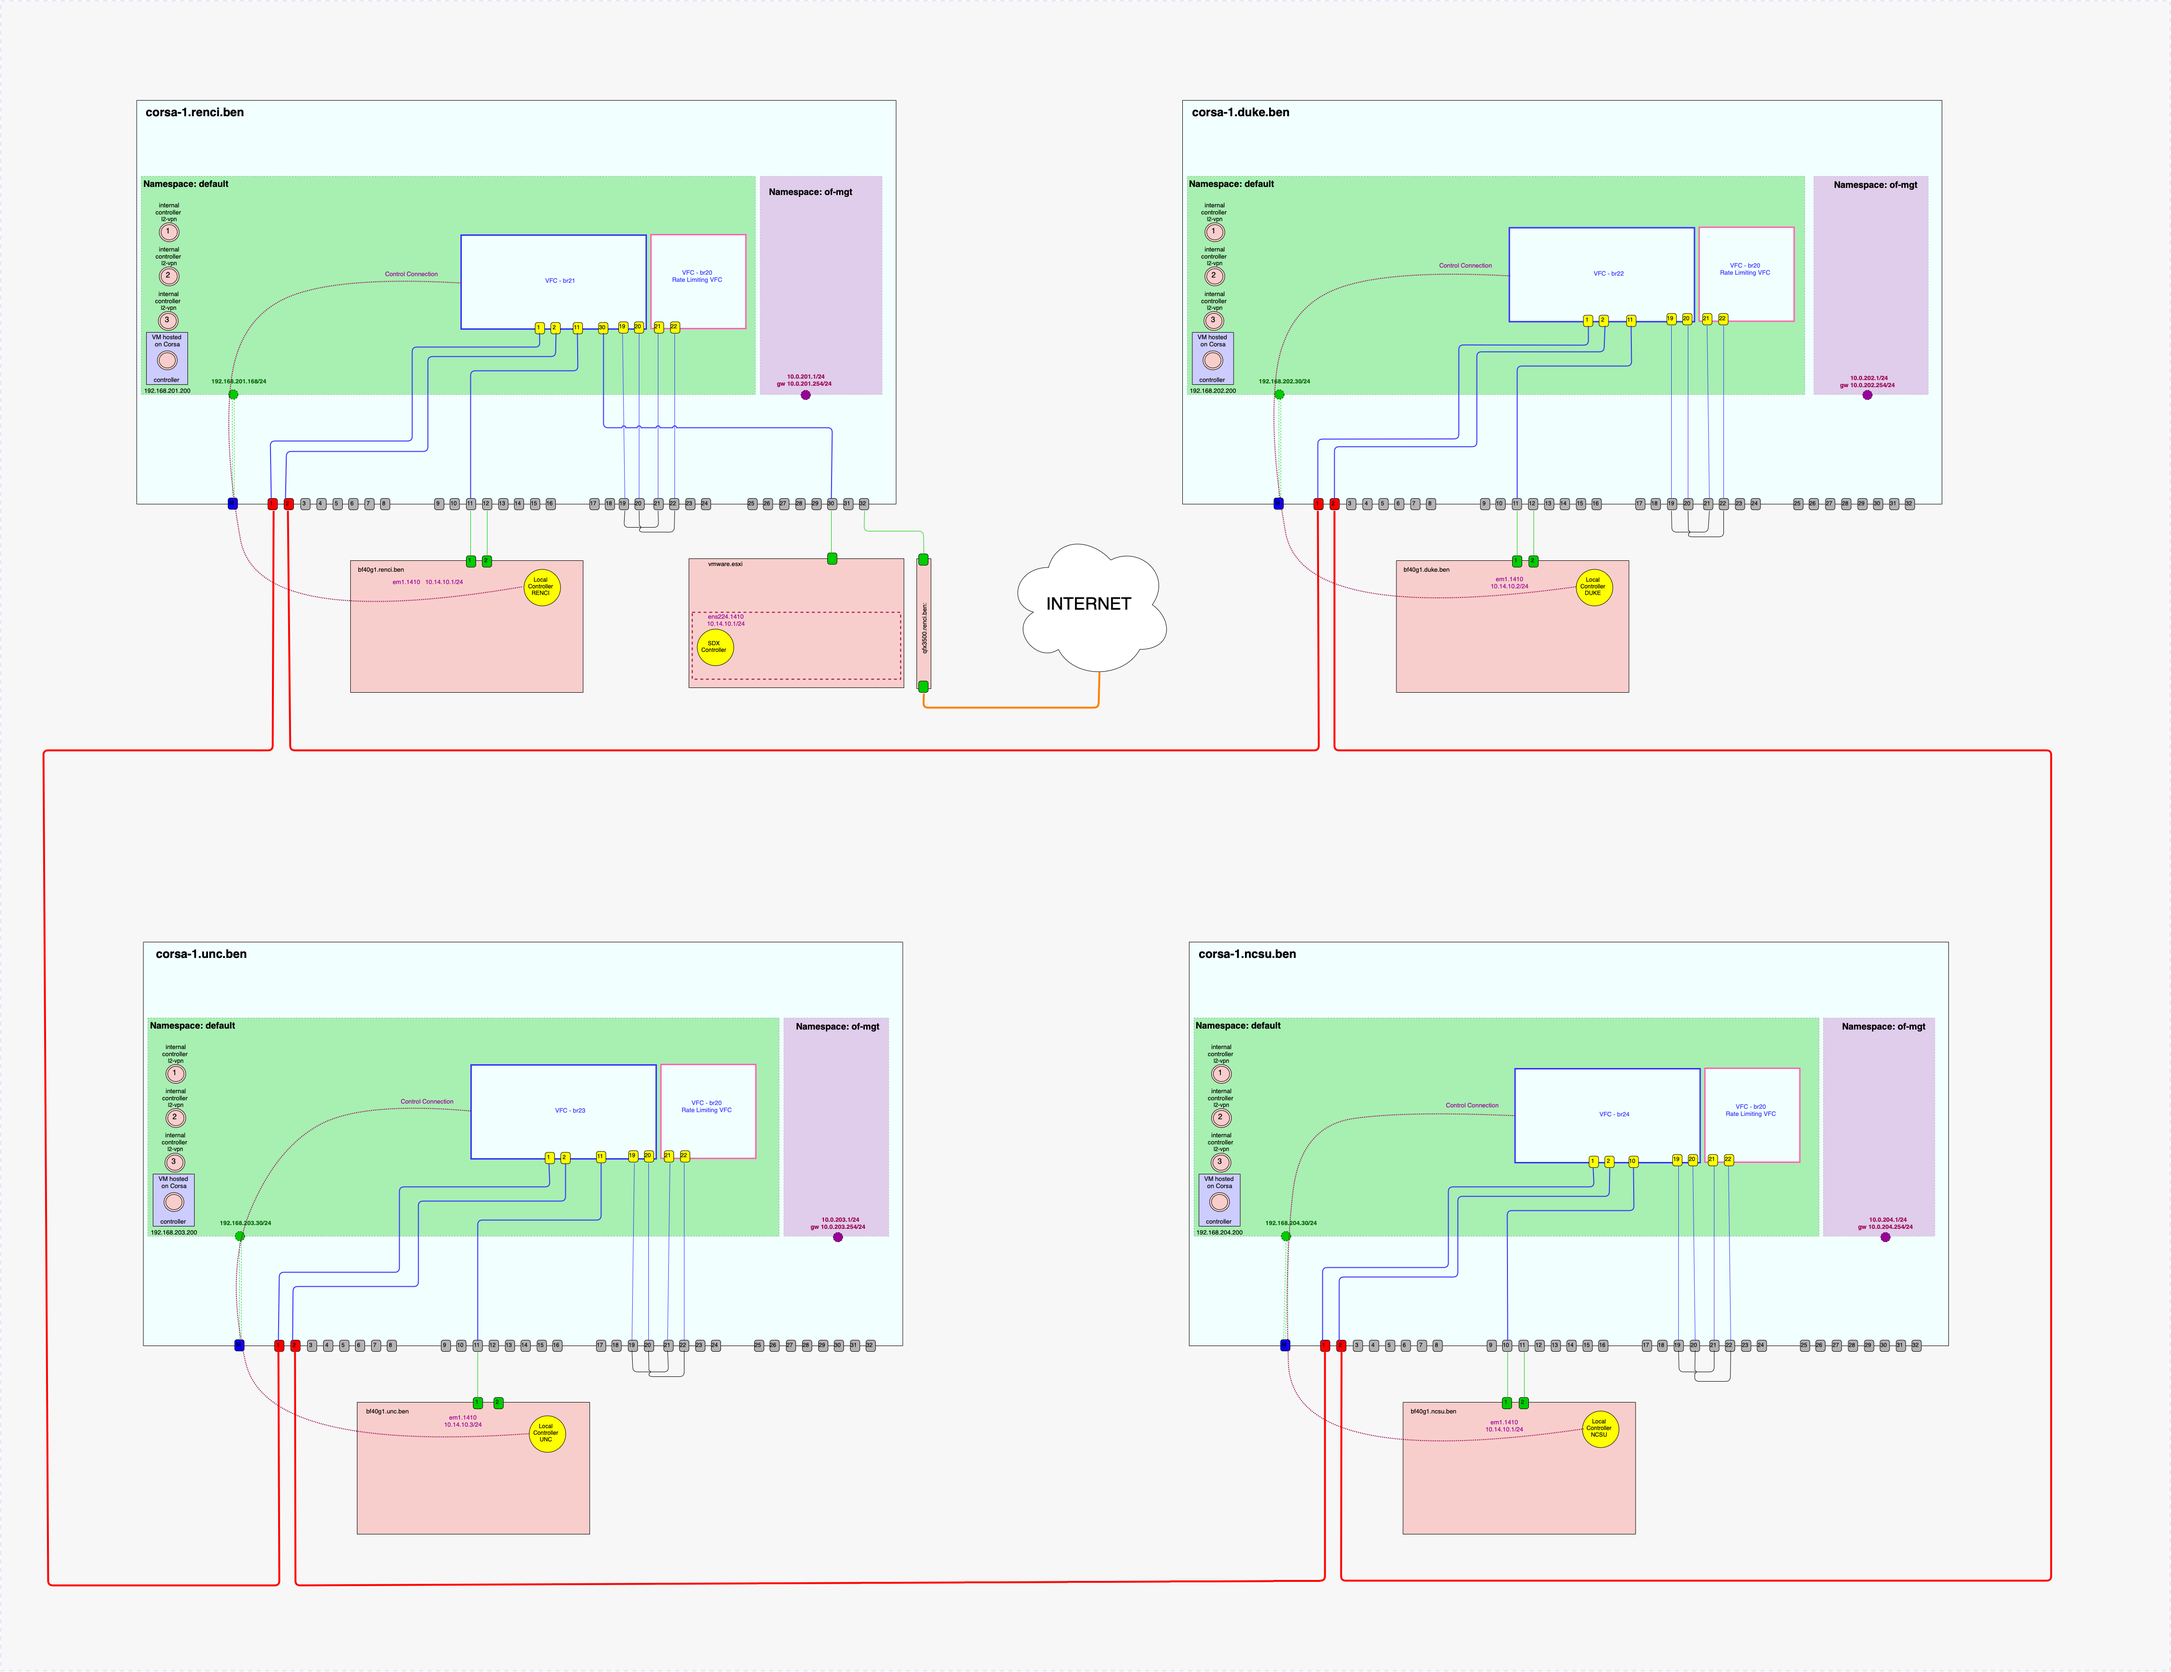
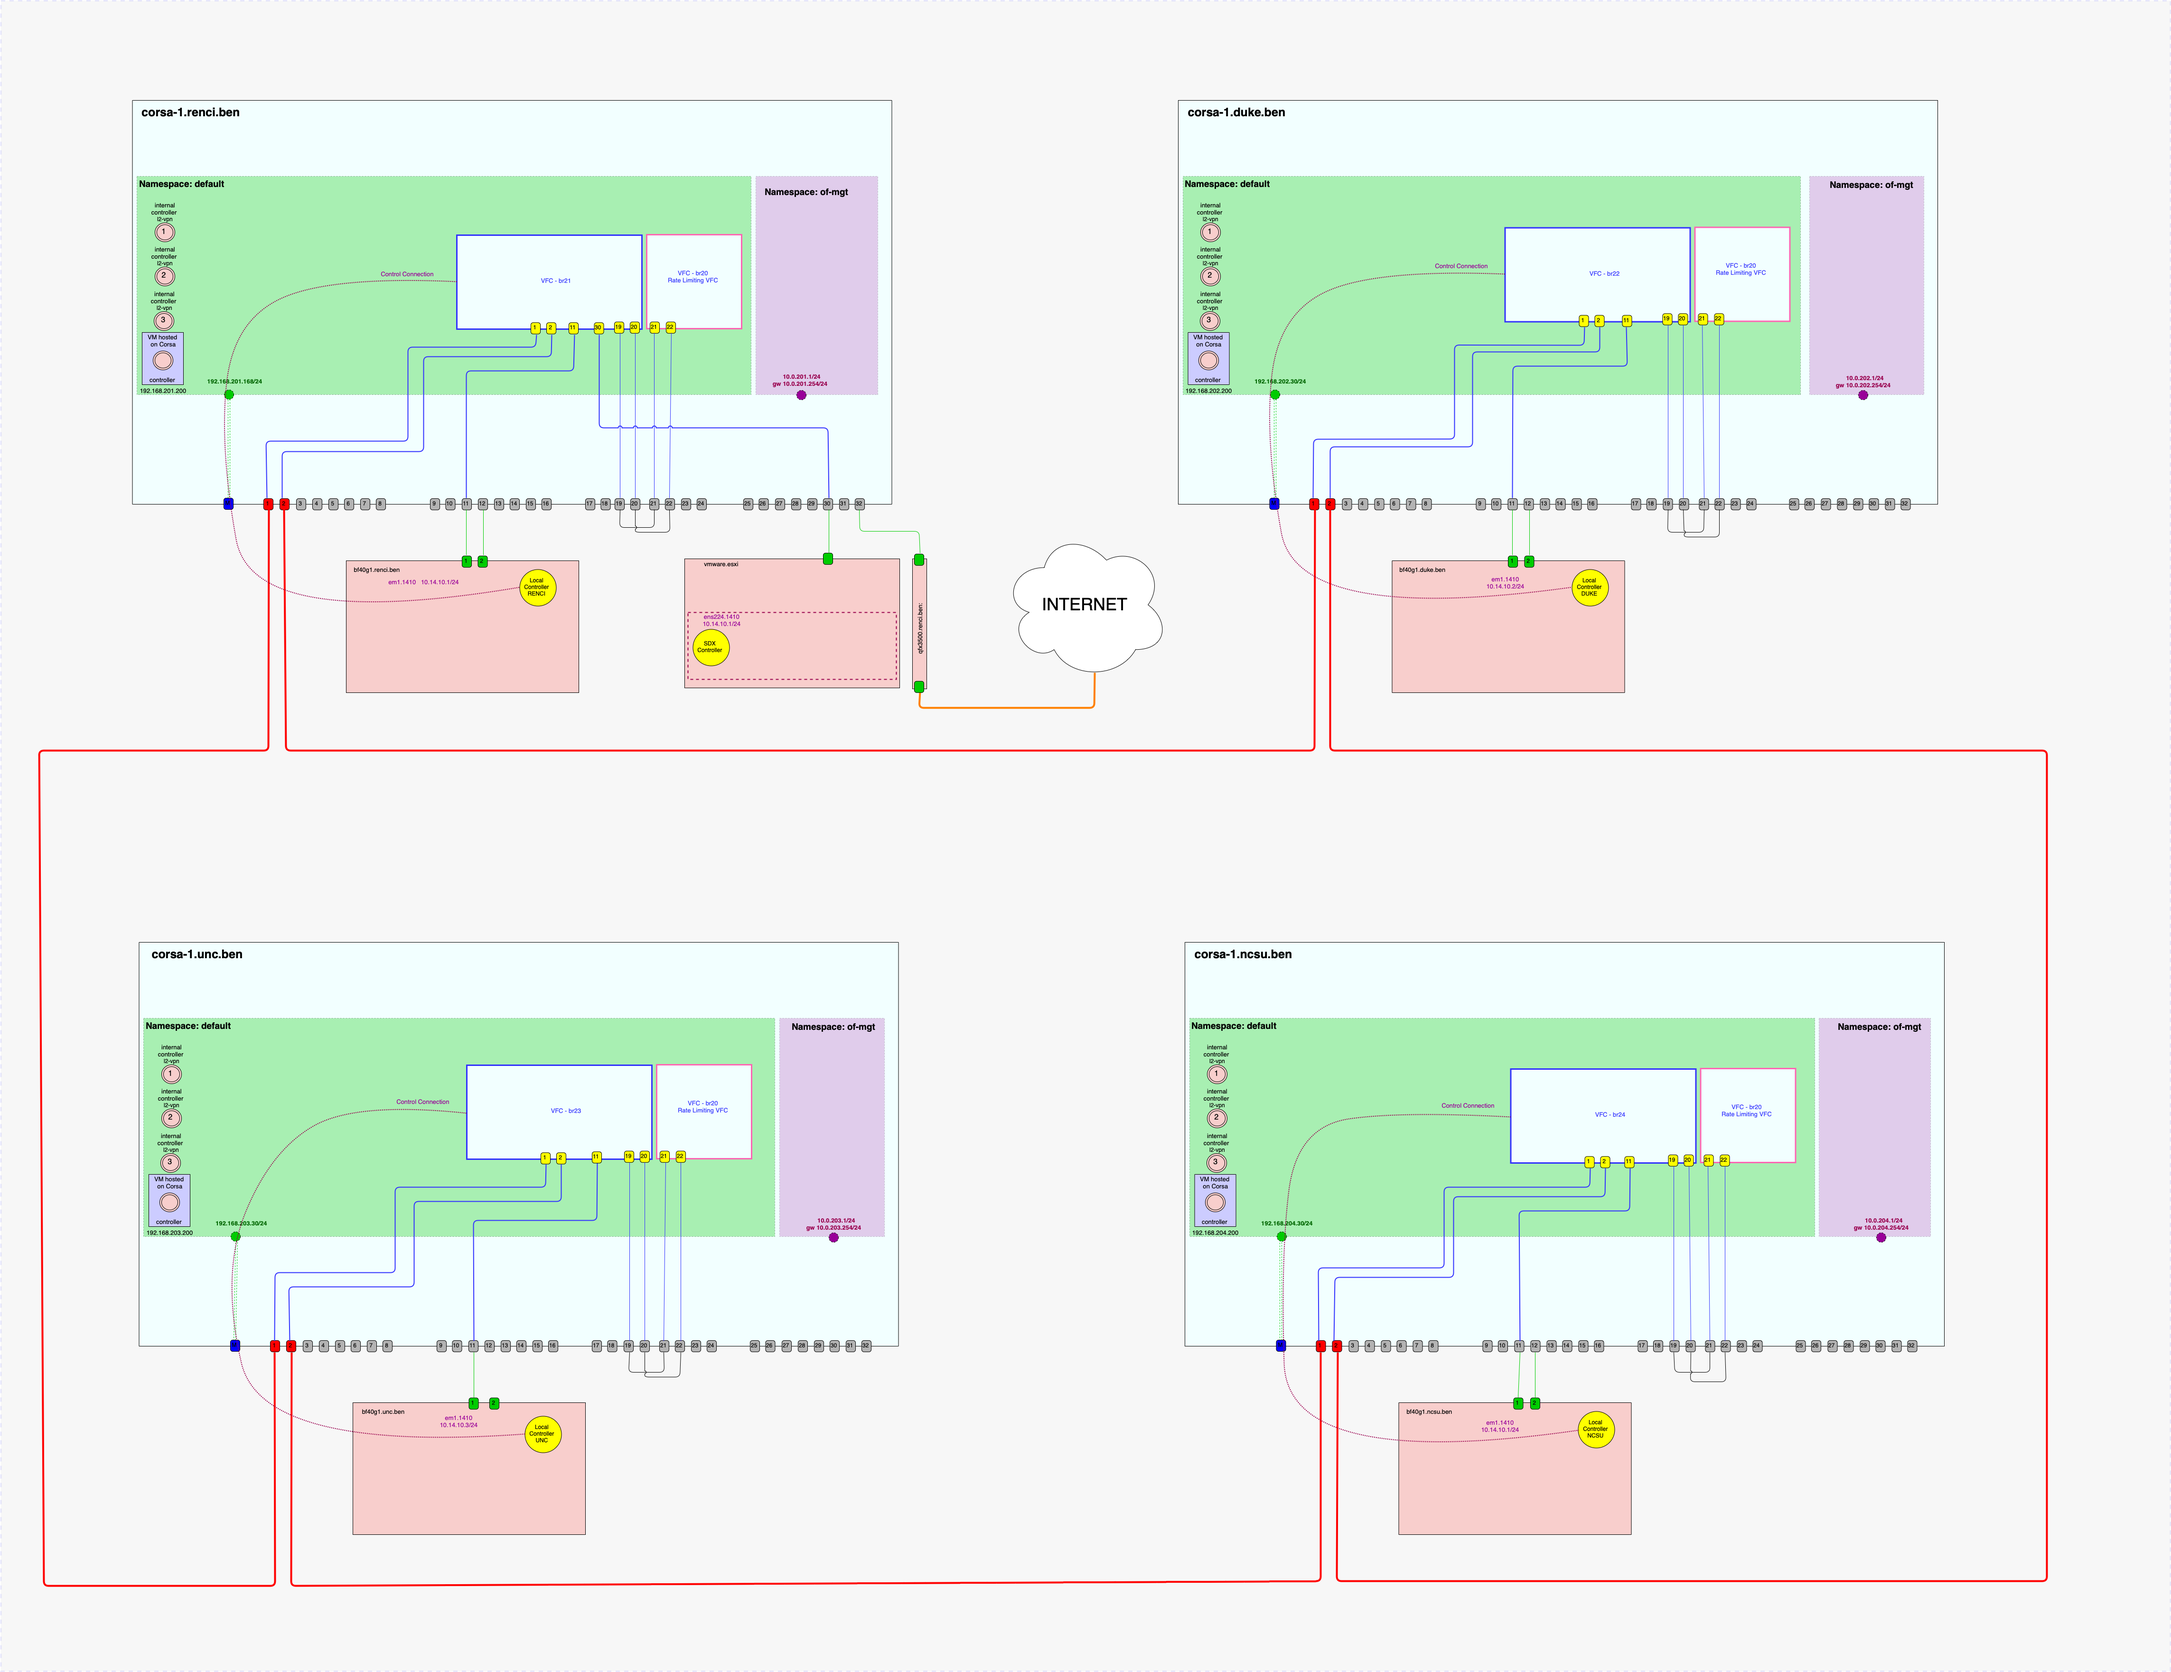
Updates for port changes on NCSU switch

diff --git a/configuration/renci_testbed/README.md b/configuration/renci_testbed/README.md
@@ -82,8 +82,8 @@ configure port 12 tunnel-mode passthrough
 # NCSU
 configure port 1 tunnel-mode passthrough
 configure port 2 tunnel-mode passthrough
-configure port 10 tunnel-mode passthrough
 configure port 11 tunnel-mode passthrough
+configure port 12 tunnel-mode passthrough
 
 ```
 
@@ -140,8 +140,8 @@ configure bridge add br24 openflow resources 10
 configure bridge br24 dpid 0xCC
 configure bridge br24 tunnel attach ofport 1 port 1 
 configure bridge br24 tunnel attach ofport 2 port 2 
-configure bridge br24 tunnel attach ofport 10 port 10 
 configure bridge br24 tunnel attach ofport 11 port 11 
+configure bridge br24 tunnel attach ofport 12 port 12 
 configure bridge br24 tunnel attach ofport 19 port 19 
 configure bridge br24 tunnel attach ofport 20 port 20 
 configure bridge br24 controller add CONTbr24  192.168.204.21 6684
